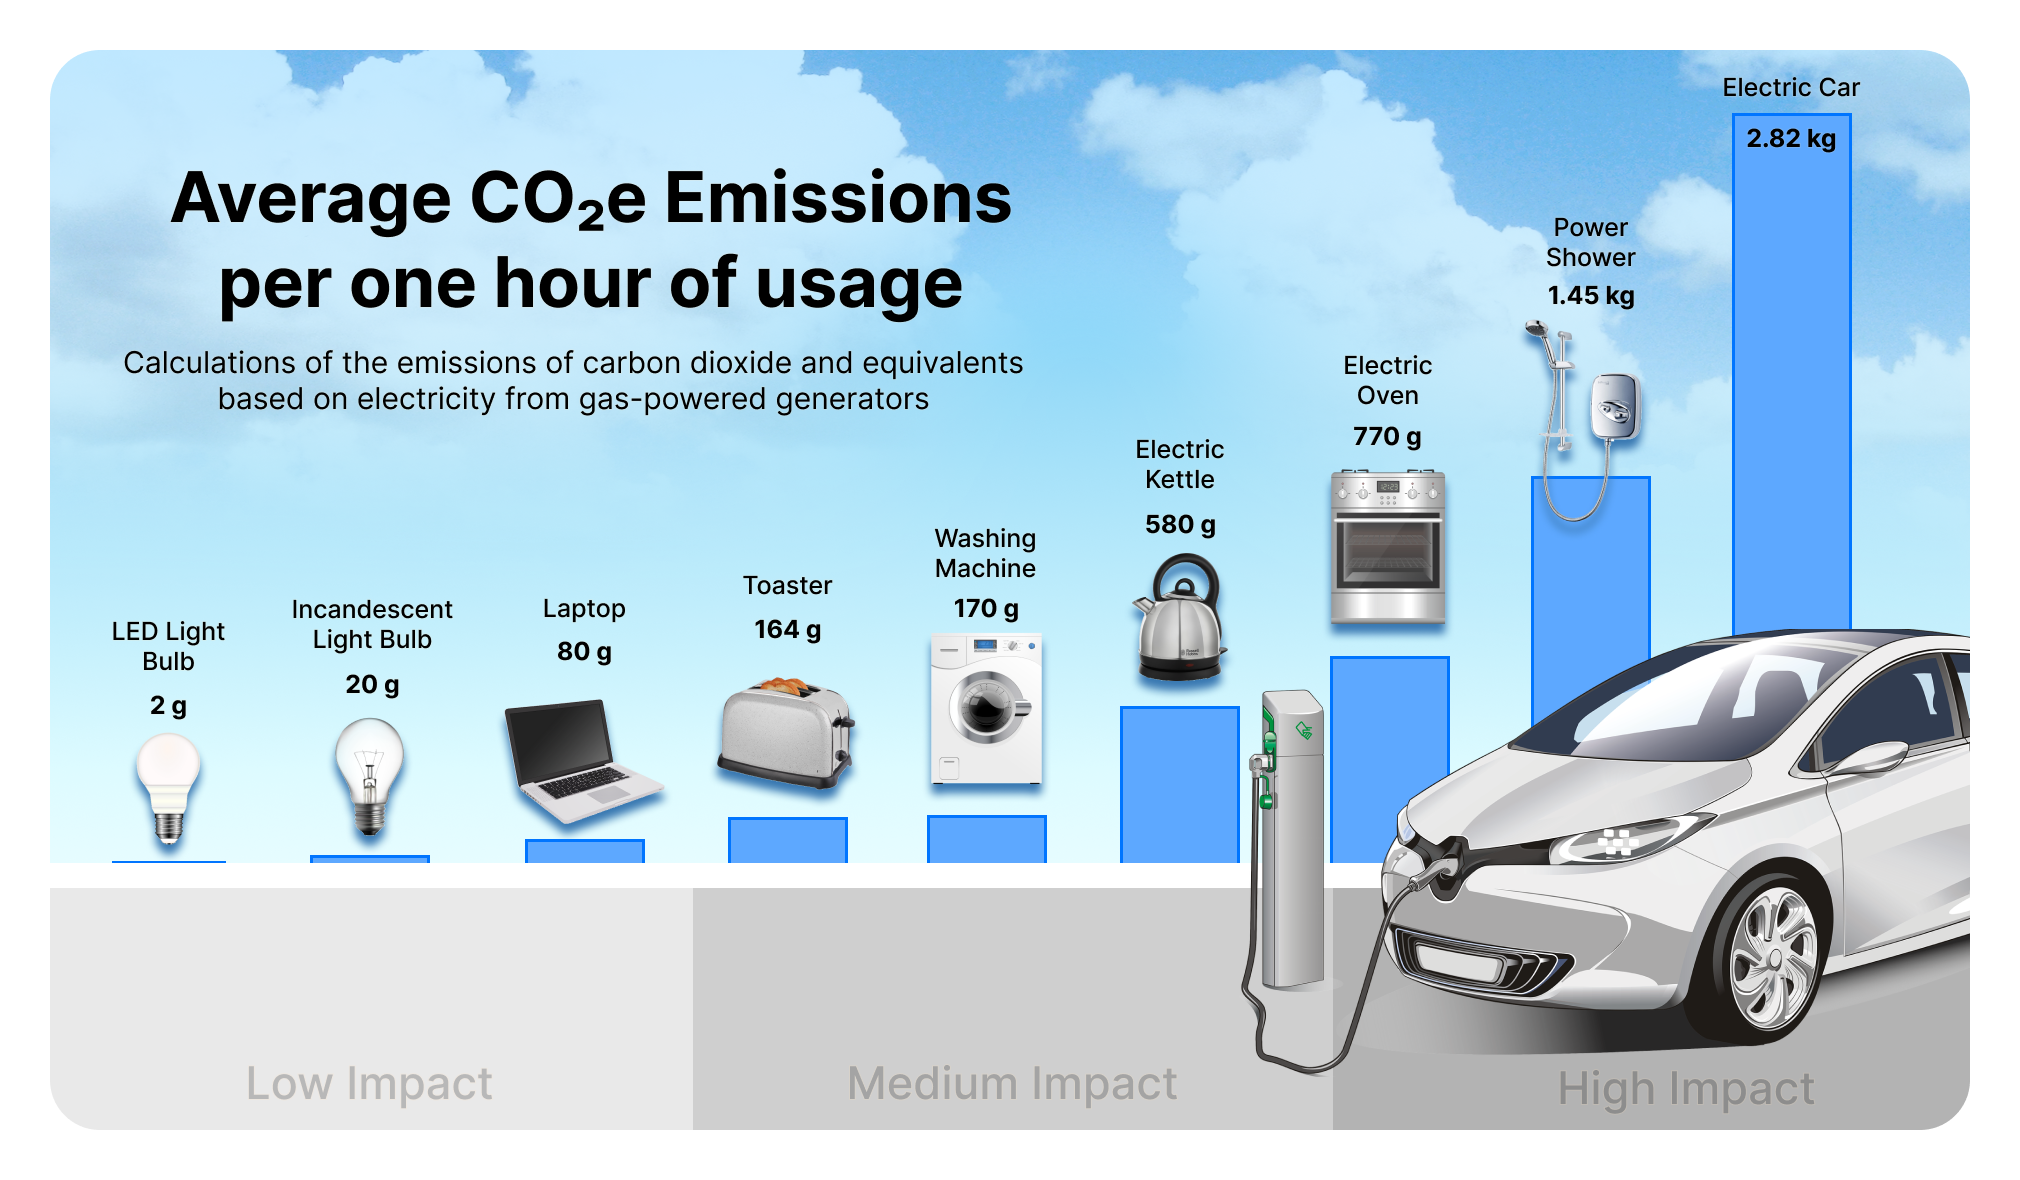
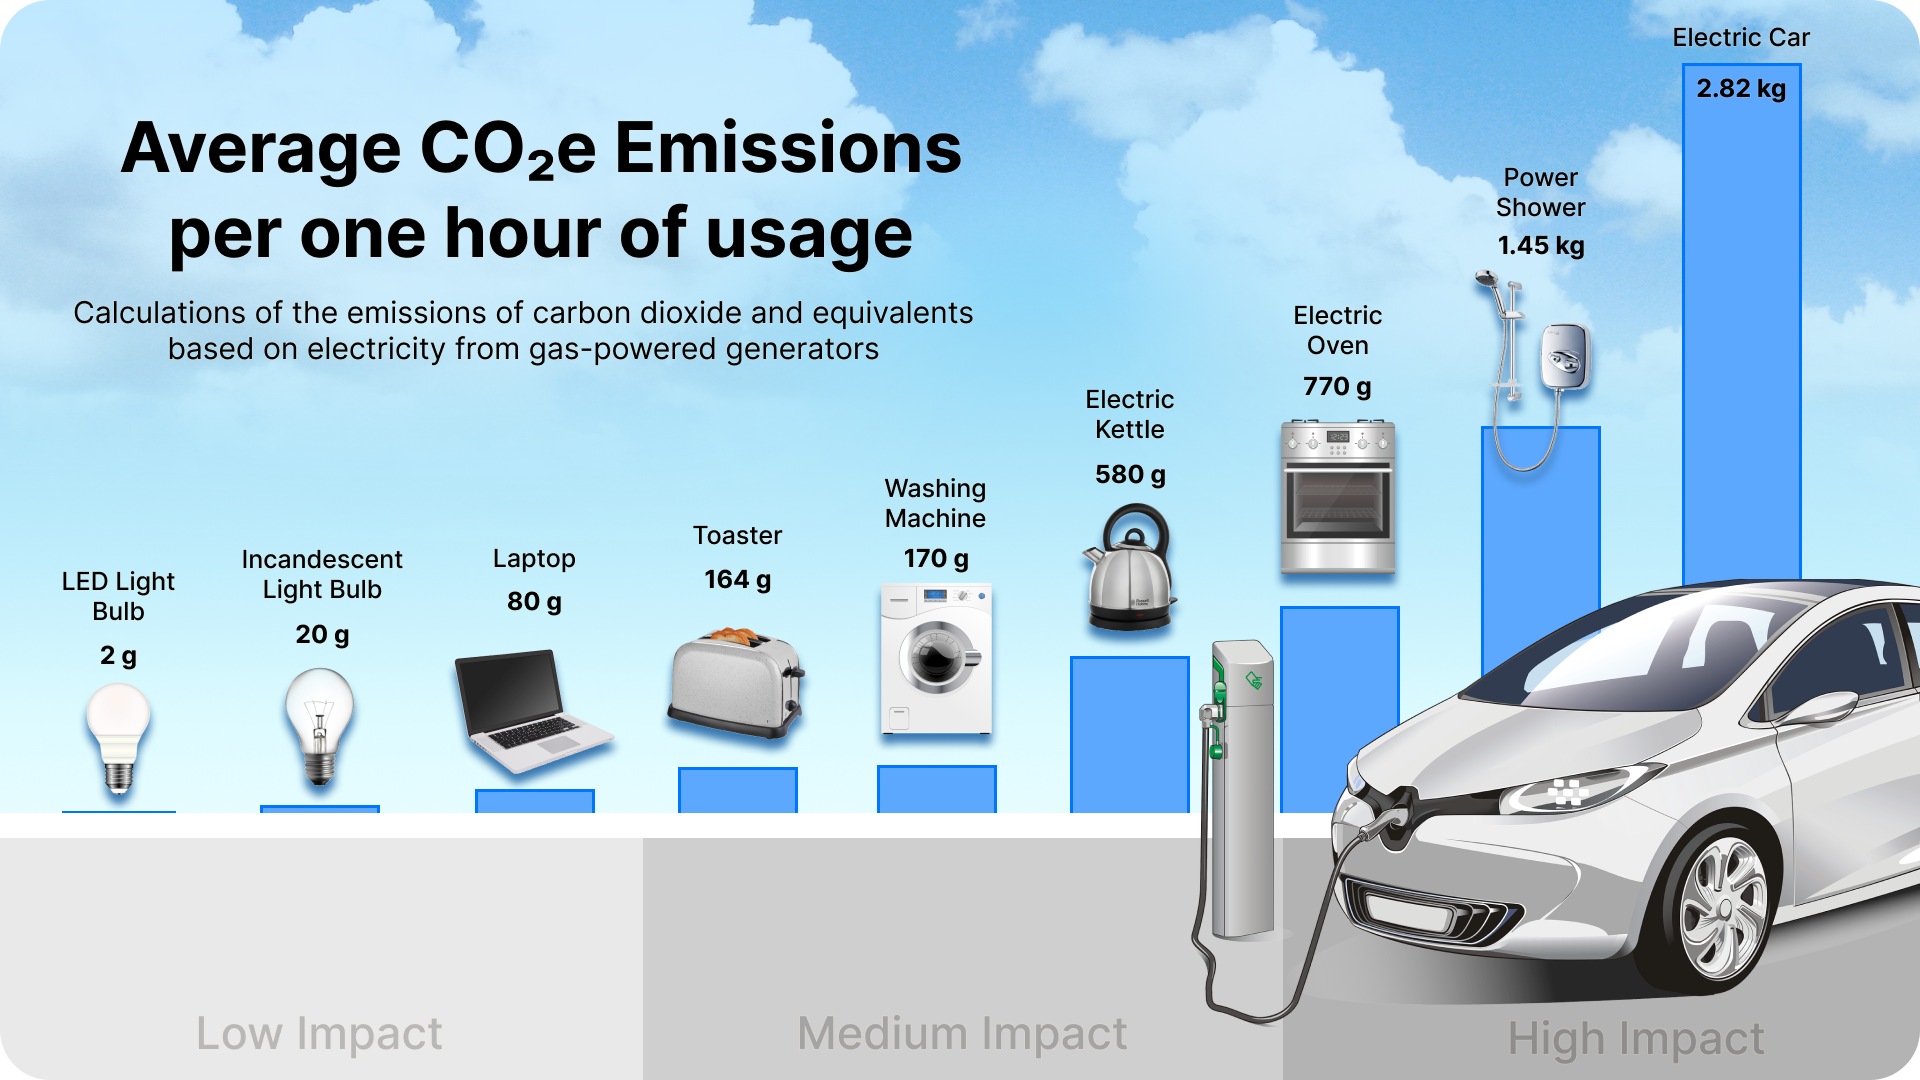
Bug and styling fixes

diff --git a/src/javascript/renderer.js b/src/javascript/renderer.js
@@ -1,4 +1,5 @@
 const {ipcRenderer} = require("electron");
+// const { clearInterval } = require("timers");
 require('events').EventEmitter.defaultMaxListeners = 100;
 
 /* =========================================================================================================
@@ -11,7 +12,7 @@ var bicyclePower = 0;
 class Bicycle {
     device;
 
-    async connectBicycle(bicycleName) {
+    async connectBicycle(bicycleName, bicycleNumber) {
         await navigator.bluetooth
             .requestDevice({
                 filters: [
@@ -26,15 +27,14 @@ class Bicycle {
                 this.device = device;
                 this.device.addEventListener("gattserverd", function () {
                     setTimeout(function () {
-                        reconnectBicycle(bicycleName);
+                        reconnectBicycle(bicycleNumber);
                     }, 2000);
                 });
-
-                this.startConnection(bicycleName);
+                this.startConnection();
             });
     }
 
-    async startConnection(bicycleName) {
+    async startConnection() {
         this.device.gatt.connect();
         await this.device.gatt
             .connect()
@@ -46,10 +46,9 @@ class Bicycle {
                 return service.getCharacteristic("00002a63-0000-1000-8000-00805f9b34fb");
             })
             .then((characteristic) => characteristic.startNotifications())
-
             .then((characteristic) => {
                 characteristic.addEventListener("characteristicvaluechanged", function () {
-                    testChange(event, bicycleName);
+                    testChange(event);
                 });
             })
             .catch((error) => {
@@ -62,7 +61,7 @@ class Bicycle {
             await this.device.gatt.disconnect();
         }
         catch {
-            console.log("gatt issue");
+            console.log("disconnecting gatt issue");
         }
         
     }
@@ -80,14 +79,14 @@ const deviceOne = new Bicycle();
 const deviceTwo = new Bicycle();
 
 async function connectBicycle(bicycleNumber) {
-    if (bicycleNumber == 1) {
-        await deviceOne.connectBicycle("Tacx Flux 27168");
-        console.log("connected bike 1");
-        // Tacx Flux 27168
-    } else {
-        await deviceTwo.connectBicycle("Tacx Flux 27280");
-        console.log("connected bike 2");
-        // Tacx Flux 27280
+    if (bicycleNumber === 1) {
+        await deviceOne.connectBicycle("Tacx Flux 27168", 1);
+        console.log("Bike 1 connected") 
+    } 
+    
+    else if  (bicycleNumber === 2) {
+        await deviceTwo.connectBicycle("Tacx Flux 27280", 2);
+        console.log("Bike 2 connected") 
     }
 }
 
@@ -96,15 +95,15 @@ async function reconnectBicycle(bicycleNumber) {
         await deviceOne.startConnection("Tacx Flux 27168");
         if (!deviceOne.isConnected()) {
             setTimeout(function () {
-                reconnectBicycle("Tacx Flux 27168");
-            }, 5000);
+                reconnectBicycle(1);
+            }, 2000);
         }
     } else {
         deviceTwo.startConnection("Tacx Flux 27280");
         if (!deviceTwo.isConnected()) {
             setTimeout(function () {
-                reconnectBicycle("Tacx Flux 27280");
-            }, 5000);
+                reconnectBicycle(2);
+            }, 2000);
         }
     }
 }
@@ -143,6 +142,7 @@ var timer_paused = false;
 
 setup_start_screen();
 document.querySelector(".start").onclick = function() {start()};
+
 function start() {
     if (mode === "Competition Mode" || mode === "Cooperation Mode") {
         ipcRenderer.send("get-"+ display + "-ready-status", [true]);
@@ -152,18 +152,19 @@ function start() {
             }
             else if (display === "right") {
                 connectBicycle(2);
-            }
+            } 
             setup_challenge_screen();
             beginTimer();
         })
     }
+
     else {
         if (display === "left") {
             connectBicycle(1);
         }
         else if (display === "right") {
-            connectBicycle(2);
-        }
+            connectBicycle(2); 
+        } 
         setup_challenge_screen();
         beginTimer();
     }
@@ -243,7 +244,6 @@ function beginTimer() {
                 else {
                     clearInterval(x);
                     timesUp = true;
-                    const myTimeout = setTimeout(show_results, 3000);
                     show_results(); // Goal not reached
                 }
             } else {
@@ -341,13 +341,6 @@ function setup_challenge_screen() {
         heading.innerHTML = "Can you power a " + appliance + "?";
     }
     subheading.innerHTML = "Cycle to generate electricity";
-
-    // if (display === "left") {
-    //     connectBicycle(1);
-    // }
-    // else if (display === "right") {
-    //     connectBicycle(2);
-    // }
 
     document.querySelector(".left").style.opacity = "100%";
 
@@ -559,8 +552,17 @@ function begin_challenge() {
     }
 }
 
+
+
  // ================================================= RESULTS SCREEN =================================================
 function show_results() {
+
+    if (display == "left") {
+        disconnectBicycle(1);
+    }
+    else {
+        disconnectBicycle(2);
+    }
 
     var cost = 0;
     var carbonEmissions = 0;

diff --git a/src/templates/display_selection.html b/src/templates/display_selection.html
@@ -10,31 +10,29 @@
             <div class="content-container" style="background: none; border-color: transparent; text-align: center;">
                 <div class="text-container">
                     <h1>CYCLING PEDAL POWER DISPLAY</h1>
-                    <h2>&nbsp</h2>
+                    <p style="font-size: 30px;">Select an option and drag the application screen onto the corresponding display</p>
+                    <h3>&nbsp</h3>
                 </div>
 
                 <div class="display-selection">
                     <div class="display" onclick="select('left');">
                         <h1 style="margin-top: 10%;">LEFT</h1>
-                        <img src="../images/monitor.png" width="75%" height="45%" style="margin-top: 5%; margin-bottom: 10%;">
-                        <h1>MONITOR</h1>
+                        <img src="../images/monitor.png" height="45%" style="margin-top: 2.5%;">
+                        <h1 style="margin-top: 7.5%;">MONITOR</h1>
                     </div>
 
                     <div class="display" onclick="select('large');">
                         <h1 style="margin-top: 10%;">LARGE</h1>
-                        <img src="../images/tv.jpg" width="90%" height="55%" style="margin-bottom: 5%;"/>
-                        <h1>DISPLAY</h1> 
+                        <img src="../images/tv.jpg" height="55%" style="margin-top: -2.5%;"/>
+                        <h1 style="margin-top: 4.5%;">DISPLAY</h1> 
                     </div>
 
                     <div class="display" onclick="select('right');">
                         <h1 style="margin-top: 10%;">RIGHT</h1>
-                        <img src="../images/monitor.png" width="75%" height="45%" style="margin-top: 5%; margin-bottom: 10%;"/>
-                        <h1>MONITOR</h1>
+                        <img src="../images/monitor.png" height="45%" style="margin-top: 2.5%;"/>
+                        <h1 style="margin-top: 7.5%;">MONITOR</h1>
                     </div>
                 </div>
-                <h2>&nbsp</h2>
-                <h2>&nbsp</h2>
-                <p style="font-size: 30px;">Select an option and drag the application screen onto the corresponding display</p>
             </div>
         </div>
         <script src="../javascript/display_selection.js"></script>

diff --git a/src/templates/welcome_screen.html b/src/templates/welcome_screen.html
@@ -5,10 +5,9 @@
         <title>Cycling Pedal Power Display</title>
         <link rel="stylesheet" href="../css/index.css" />
     </head>
-    <body onclick="next();" style=" background: linear-gradient(180deg, #50C0FF 0%, #99DBF8 31.77%, #DDFBFF 66.67%, #FFFFFF 100%); margin-bottom: 5%;">
-          
+    <body onclick="next();" style="background: linear-gradient(180deg, #50C0FF 0%, #99DBF8 31.77%, #DDFBFF 66.67%, #FFFFFF 100%);">
         <div class="outer">
-            <img src="../images/clouds.png" style="object-fit: fill; margin-top:-10px; margin-left: -10px; width: 105%; height: 105%;"/>
+            <img src="../images/clouds.png" style="object-fit: fill; margin-left: -5%; margin-top:-10px; width: 110%; height: 100%;"/>
             <div class="inner">
                 <div class="inner-left">
                     <img src="../images/bicycle.png" />
@@ -17,13 +16,10 @@
                     <h1>Can you power on household appliances by cycling?</h1>
                     <h2>Discover the environmental impact of six common household appliances and attempt to power on their digital twins through cycling.</h2>
                     <div id="touchscreen-message">
-                        <div style="width: 275px; margin-bottom: -50px">
-                            <p>Touch the screen to continue</p>
-                        </div>
-                        <img style="display: inline; margin-left: 250px; margin-top: -100px;" src="../images/touchscreen_icon.png" />
+                        <p style="width: 275px; margin-top:-50%; margin-left: 50px;">Touch the screen to continue</p>
+                        <img style="position: fixed; margin-left: 130px; margin-top: -14vh;" src="../images/touchscreen_icon.png" />
                     </div>
                 </div>
-                
             </div>
         </div>
         <script src="../javascript/welcome_screen.js"></script>

diff --git a/src/javascript/index.js b/src/javascript/index.js
@@ -52,6 +52,16 @@ const createWindow = () => {
     });
     win.webContents.openDevTools();
     win.loadFile(path.join(__dirname, '../templates/display_selection.html'));
+
+    // const largeDisplay = new BrowserWindow({
+    //     width: 1250,
+    //     height: 900,
+    //     webPreferences: {
+    //         nodeIntegration: true,
+    //         contextIsolation: false,
+    //     },
+    // });
+    // largeDisplay.loadFile(path.join(__dirname, '../templates/display_selection.html'));
     
 
     win.webContents.on("select-bluetooth-device", (event, deviceList, callback) => {

diff --git a/src/templates/large_display.html b/src/templates/large_display.html
@@ -3,9 +3,8 @@
     <head>
         <meta charset="UTF-8" />
         <title>Cycling Pedal Power Display</title>
-        <link rel="stylesheet" href="../css/index.css" />
     </head>
     <body>
-        <img src="../images/co2e-infographic.png"/>
+        <img src="../images/co2e-infographic.png" width="92.5%" style="margin: 0 auto; margin-left: 3.75%;"/>
     </body>
 </html>

diff --git a/src/css/index.css b/src/css/index.css
@@ -407,8 +407,8 @@ body {
 }
 
 .inner-left img {
-    margin-top: 50%;
-    height: 70vh;
+    margin-top: 30%;
+    height: 85vh;
 }
 
 .inner-right {
